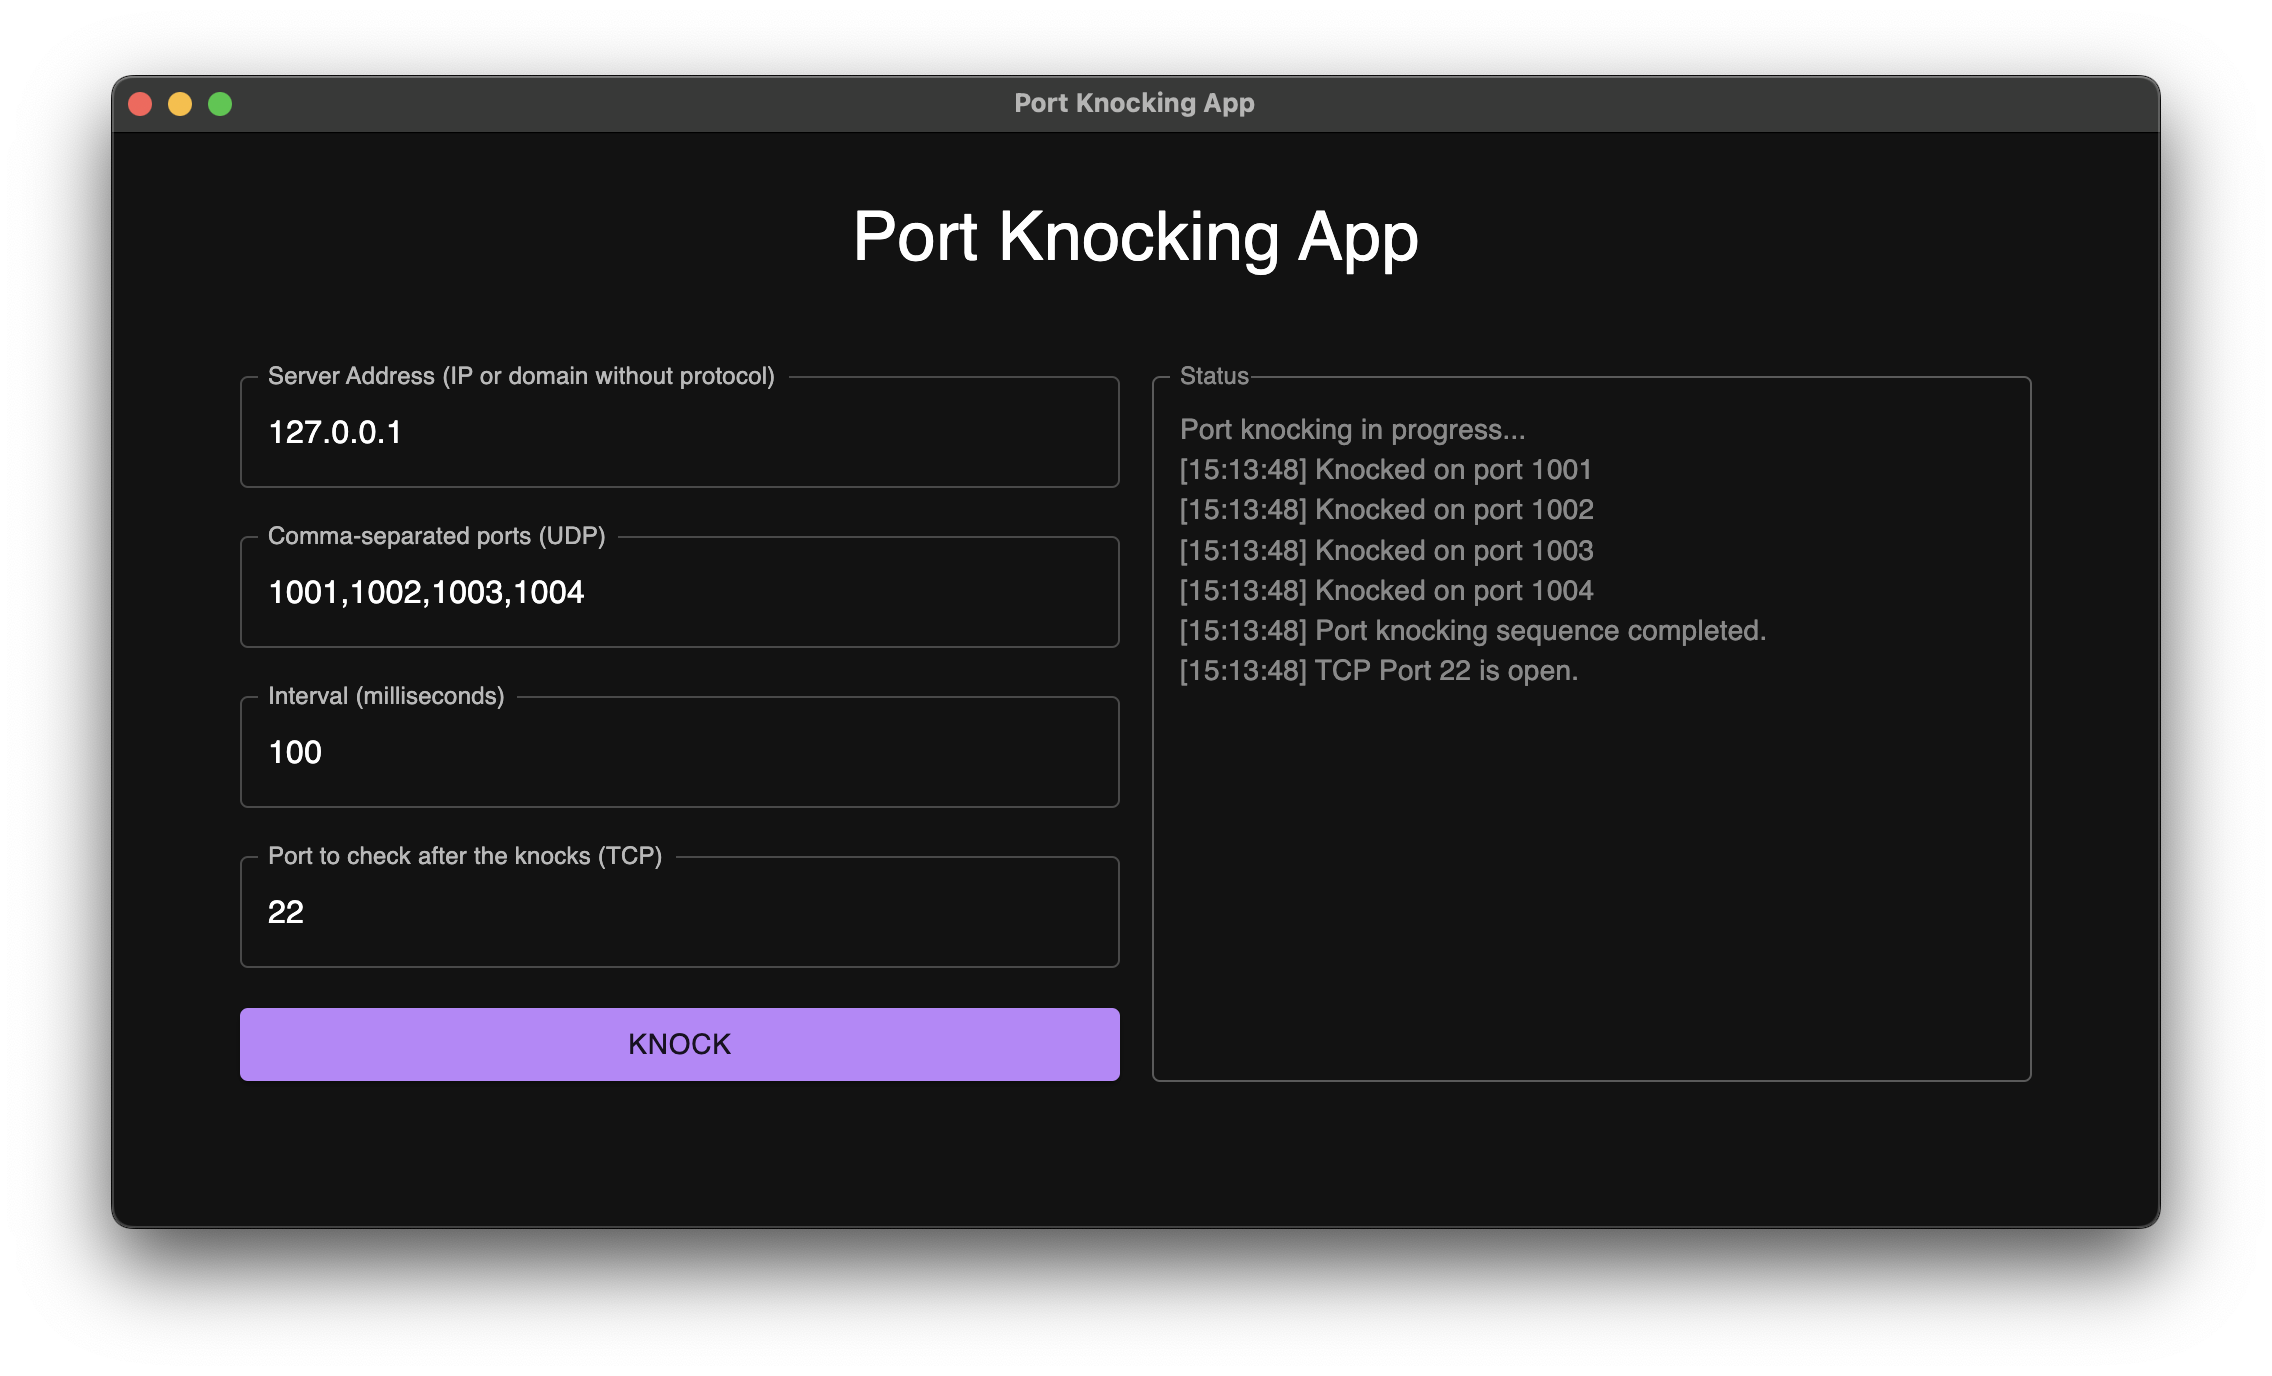
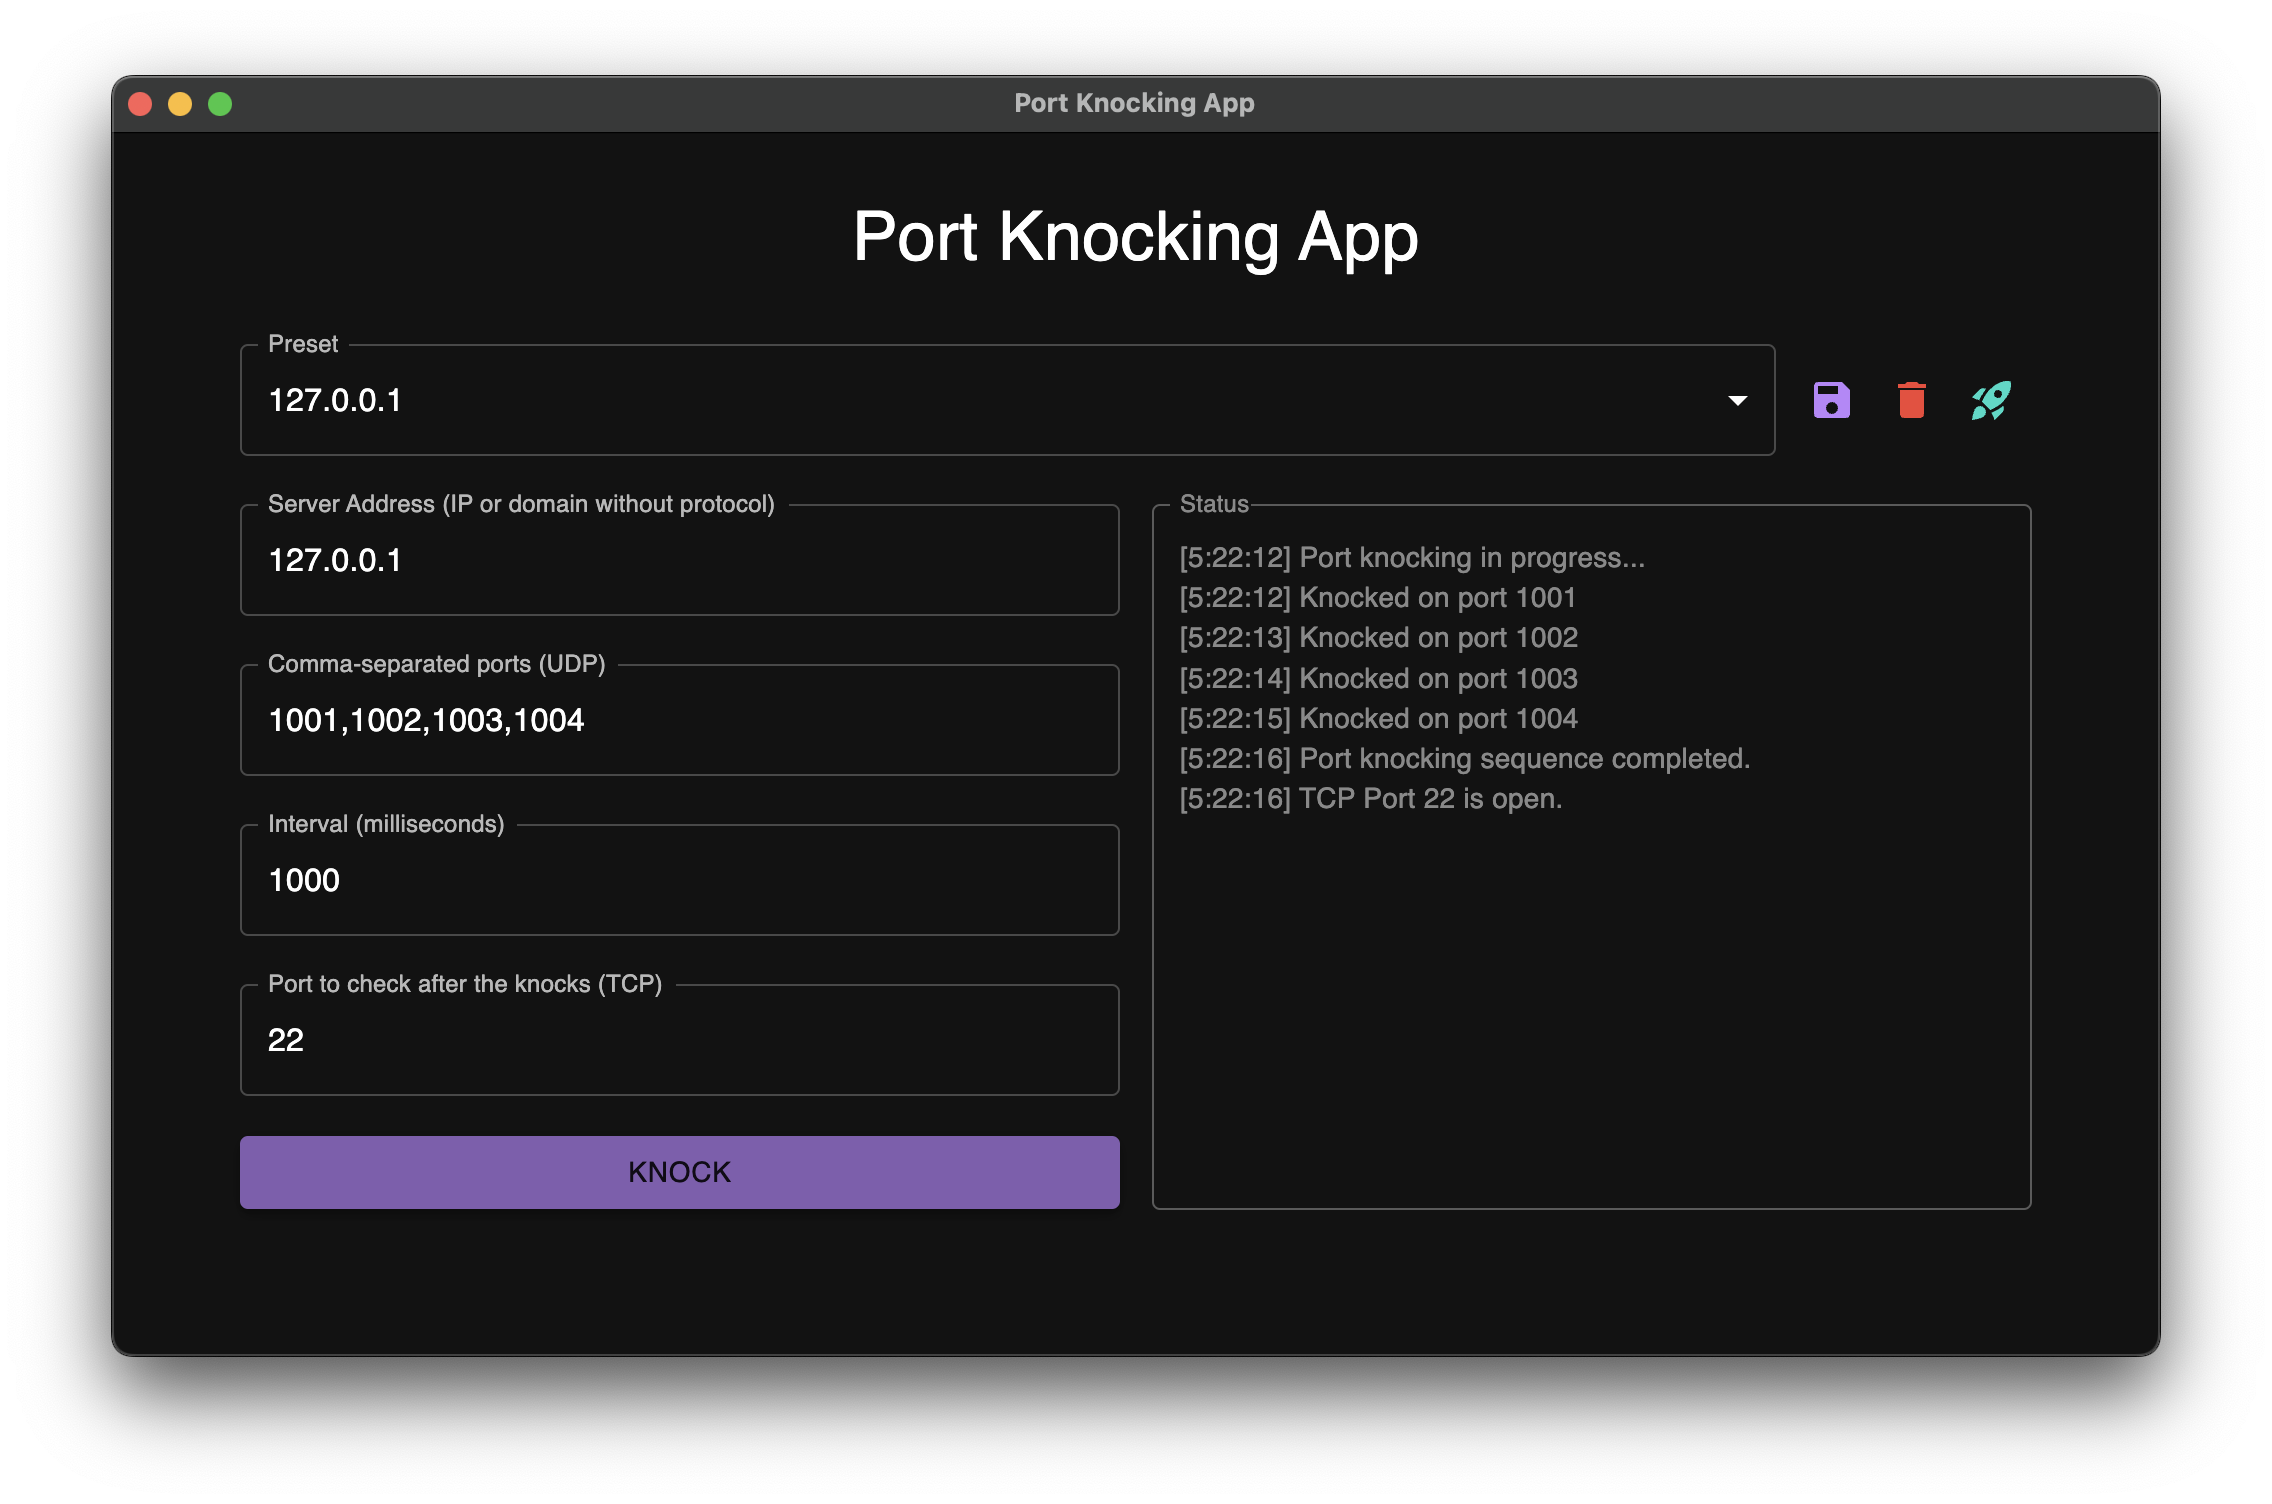
Adds app launch button

diff --git a/src/components/AppLauncher.tsx b/src/components/AppLauncher.tsx
@@ -1,0 +1,69 @@
+import React, { useState, useEffect } from 'react';
+import { shell } from 'electron';
+import { IconButton, Tooltip } from '@mui/material';
+import RocketLaunchIcon from '@mui/icons-material/RocketLaunch';
+import { dialog } from '@electron/remote';
+
+const AppLauncherButton: React.FC = () => {
+  const [appPath, setAppPath] = useState<string | null>(null);
+
+  useEffect(() => {
+    // Retrieve the stored app path on component mount
+    const storedPath = localStorage.getItem('appPath');
+    if (storedPath) {
+      setAppPath(storedPath);
+    }
+  }, []);
+
+  const handleButtonClick = async (
+    event: React.MouseEvent<HTMLButtonElement>,
+  ) => {
+    if (event.shiftKey || !appPath) {
+      // Open the dialog to select an app
+      const result = await dialog.showOpenDialog({
+        properties: ['openFile'],
+        filters: [
+          {
+            name: 'Applications',
+            extensions:
+              process.platform === 'win32'
+                ? ['exe']
+                : process.platform === 'darwin'
+                  ? ['app']
+                  : ['sh'],
+          },
+        ],
+      });
+
+      if (!result.canceled && result.filePaths.length > 0) {
+        const selectedPath = result.filePaths[0];
+        setAppPath(selectedPath);
+        localStorage.setItem('appPath', selectedPath);
+      }
+    } else {
+      // Launch the stored application
+      if (appPath) {
+        shell.openPath(appPath);
+      }
+    }
+  };
+
+  return (
+    <Tooltip
+      title={
+        <>
+          CLICK: Launch App
+          <br />
+          SHIFT + CLICK: Browse App
+        </>
+      }
+      placement="top"
+    >
+      <IconButton color="secondary" onClick={handleButtonClick}>
+        <RocketLaunchIcon />
+      </IconButton>
+    </Tooltip>
+  );
+};
+
+export default AppLauncherButton;

diff --git a/src/components/ConfigManager.tsx b/src/components/ConfigManager.tsx
@@ -9,9 +9,11 @@ import {
   DialogTitle,
   TextField,
   Button,
+  Tooltip,
 } from '@mui/material';
 import { Save as SaveIcon, Delete as DeleteIcon } from '@mui/icons-material';
 import { FormData } from '../hooks';
+import AppLauncherButton from './AppLauncher';
 
 interface ConfigManagerProps {
   formData: FormData;
@@ -31,6 +33,7 @@ export const ConfigManager: FC<ConfigManagerProps> = ({
   );
   const [deleteDialogOpen, setDeleteDialogOpen] = useState(false);
   const [selectedConfig, setSelectedConfig] = useState<string>('');
+  const isDeleteButtonDisabled = !selectedConfig;
 
   useEffect(() => {
     loadSavedConfigs();
@@ -106,16 +109,21 @@ export const ConfigManager: FC<ConfigManagerProps> = ({
           </MenuItem>
         ))}
       </TextField>
-      <IconButton color="primary" onClick={saveConfig}>
-        <SaveIcon />
-      </IconButton>
-      <IconButton
-        color="secondary"
-        onClick={handleDeleteDialogOpen}
-        disabled={!selectedConfig}
-      >
-        <DeleteIcon />
-      </IconButton>
+      <Tooltip title="Save" placement="top">
+        <IconButton color="primary" onClick={saveConfig}>
+          <SaveIcon />
+        </IconButton>
+      </Tooltip>
+      <Tooltip title="Delete" placement="top">
+        <IconButton
+          color="error"
+          onClick={handleDeleteDialogOpen}
+          disabled={isDeleteButtonDisabled}
+        >
+          <DeleteIcon />
+        </IconButton>
+      </Tooltip>
+      <AppLauncherButton />
       <Dialog open={deleteDialogOpen} onClose={handleDeleteDialogClose}>
         <DialogTitle>Confirm Delete</DialogTitle>
         <DialogContent>

diff --git a/forge.config.ts b/forge.config.ts
@@ -1,7 +1,6 @@
 import dotenv from 'dotenv';
 import type { ForgeConfig } from '@electron-forge/shared-types';
 import { MakerSquirrel } from '@electron-forge/maker-squirrel';
-import { MakerZIP } from '@electron-forge/maker-zip';
 import { MakerDeb } from '@electron-forge/maker-deb';
 import { MakerRpm } from '@electron-forge/maker-rpm';
 import { MakerDMG } from '@electron-forge/maker-dmg';
@@ -26,7 +25,6 @@ const config: ForgeConfig = {
   rebuildConfig: {},
   makers: [
     new MakerSquirrel({}),
-    new MakerZIP({}),
     new MakerRpm({}),
     new MakerDeb({}),
     new MakerDMG({ format: 'ULFO' }, ['darwin']),

diff --git a/src/index.ts b/src/index.ts
@@ -1,4 +1,7 @@
 import { app, BrowserWindow, nativeTheme } from 'electron';
+import * as remoteMain from '@electron/remote/main';
+
+remoteMain.initialize();
 
 // Load environment variables based on NODE_ENV
 const isDevEnv = process.env.NODE_ENV === 'development';
@@ -29,6 +32,8 @@ const createWindow = (): void => {
     },
     autoHideMenuBar: true,
   });
+
+  remoteMain.enable(mainWindow.webContents);
 
   // and load the index.html of the app.
   mainWindow.loadURL(MAIN_WINDOW_WEBPACK_ENTRY);

diff --git a/src/utils/checkTcpPort.ts b/src/utils/checkTcpPort.ts
@@ -14,7 +14,7 @@ export const checkTcpPort = ({ serverAddress, tcpPort, setStatus }: Prop) => {
   tcpClient.setTimeout(3000); // Timeout in milliseconds
   tcpClient.on('connect', () => {
     logger(`TCP Port ${tcpPort} is open.`);
-    tcpClient.end();
+    tcpClient.destroy();
   });
   tcpClient.on('timeout', () => {
     logger(`TCP Port ${tcpPort} is closed or unreachable.`);
